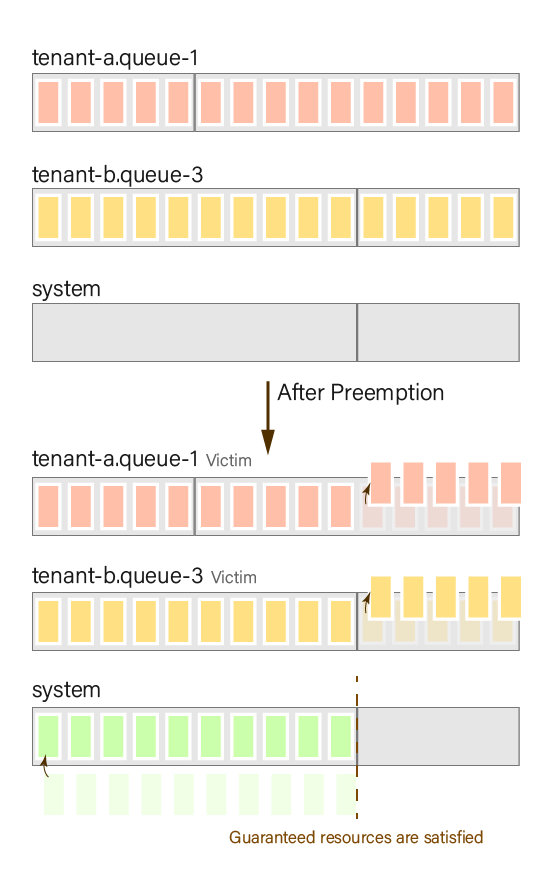
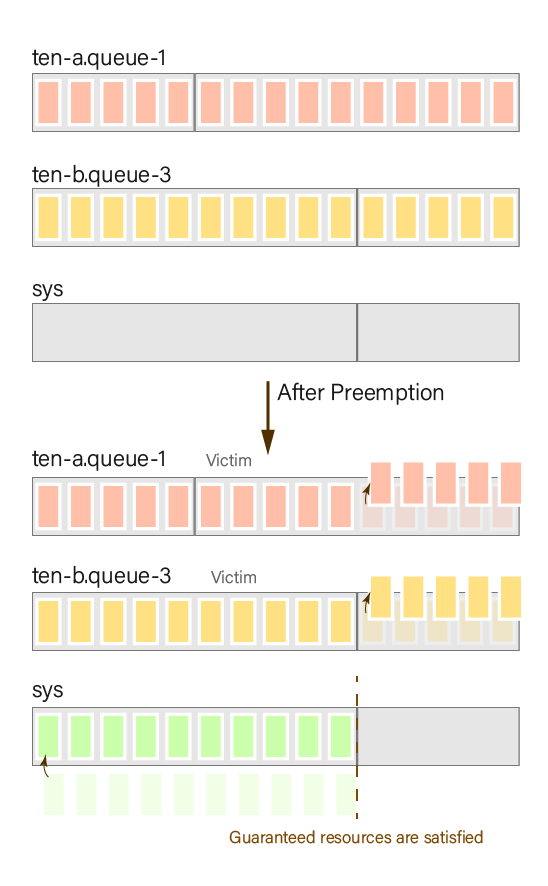
Table formatting

diff --git a/docs/user_guide/preemption.md b/docs/user_guide/preemption.md
@@ -93,10 +93,10 @@ Result:
 
 When a set of guaranteed resources is defined, preemption aims to ensure that all queues satisfy their guaranteed resources. Preemption stops once the guaranteed resources are met (law 4). A queue may be preempted if it has more resources than its guaranteed amount. For instance, in this case, if queue-1 has fewer resources than its guaranteed amount (<5), it will not be preempted (law 5).
 
-| Queue            | Resource before preemption | Resource after preemption              |
-| ---------------- | -------------------------- | -------------------------------------- |
-| `normal.queue-1` | 10 (victim)                | 7                                      |
-| `normal.queue-2` | 2                          | 5 (guaranteed resources are satisfied) |
+| Queue            | Resource before preemption | Resource after preemption |
+| ---------------- | -------------------------- | ------------------------- |
+| `normal.queue-1` | 10 (victim)                | 7                         |
+| `normal.queue-2` | 2                          | 5 (guaranteed minimum)    |
 
 ![preemption_normal_case](../assets/preemption_normal_case.png)
 
@@ -104,20 +104,20 @@ When a set of guaranteed resources is defined, preemption aims to ensure that al
 
 Similar to the previous example, but this time the queue does not have a "guaranteed resource" defined.
 
-| Queue                   | Max Resource | Guaranteed Resource |
-| ----------------------- | ------------ | ------------------- |
-| `no-guaranteed`         | 12           | -                   |
-| `no-guaranteed.queue-1` | 10           | -                   |
-| `no-guaranteed.queue-2` | 10           | -                   |
+| Queue          | Max Resource | Guaranteed Resource |
+| -------------- | ------------ | ------------------- |
+| `root`         | 12           | -                   |
+| `root.queue-1` | 10           | -                   |
+| `root.queue-2` | 10           | -                   |
 
 Result:
 
 In the absence of a guaranteed resource setting, preemption allows each queue to utilize an equal amount of resources.
 
-| Queue                     | Resource before preemption | Resource after preemption |
-| ------------------------- | -------------------------- | ------------------------- |
-| `no-guaranteed.queue-1` | 10 (victim)                | 6                         |
-| `no-guaranteed.queue-2` | 2                          | 6                         |
+| Queue          | Resource before preemption | Resource after preemption |
+| -------------- | -------------------------- | ------------------------- |
+| `root.queue-1` | 10 (victim)                | 6                         |
+| `root.queue-2` | 2                          | 6                         |
 
 ![preemption_no_guaranteed_case](../assets/preemption_no_guaranteed_case.png)
 
@@ -150,12 +150,12 @@ value: 0
 
 We will deploy 8 pods with a resource requirement of 1 to `queue-1`, `queue-2`, and `queue-3`, respectively. We will deploy to `queue-1` and `queue-2` first, followed by a few seconds delay before deploying to `queue-3`. This ensures that the resource usage in `queue-1` and `queue-2` will be greater than that in `queue-3`, depleting all resources in the parent queue and triggering preemption.
 
-| Queue                    | Max Resource | Guaranteed Resource | Policy                      |
-| ------------------------ | ------------ | ------------------- | --------------------------- |
-| `priority-class`         | 16           | -                   |                             |
-| `priority-class.queue-1` | 8            | 3                   | `"allow-preemption": true`  |
-| `priority-class.queue-2` | 8            | 3                   | `"allow-preemption": false` |
-| `priority-class.queue-3` | 8            | 3                   | `"allow-preemption": true`  |
+| Queue        | Max Resource | Guaranteed Resource | Policy-`allow-preemption` |
+| ------------ | ------------ | ------------------- | ------------------------- |
+| `rt`         | 16           | -                   |                           |
+| `rt.queue-1` | 8            | 3                   | `true`                    |
+| `rt.queue-2` | 8            | 3                   | `false`                   |
+| `rt.queue-3` | 8            | 3                   | `true`                    |
 
 Result:
 
@@ -166,11 +166,11 @@ Please note that setting `yunikorn.apache.org/allow-preemption` is a strong reco
 For example, even with `allow-preemption` set to `false`, DaemonSet pods can still be preempted. Additionally, if an application in `queue-1` has a higher priority than one in `queue-3`, the application in `queue-2` will be preempted because an application can never preempt another application with a higher priority. In such cases where no other preemption options exist, the `allow-preemption` flag may not prevent preemption.
 
 
-| Queue                  | Resource before preemption | Resource after preemption              |
-| ---------------------- | -------------------------- | -------------------------------------- |
-| `priority-class.queue-1` | 8 (victim)                 | 5                                      |
-| `priority-class.queue-2` | 8                          | 8                                      |
-| `priority-class.queue-3` | 0                          | 3 (guaranteed resources are satisfied) |
+| Queue        | Resource before preemption | Resource after preemption |
+| ------------ | -------------------------- | ------------------------- |
+| `rt.queue-1` | 8 (victim)                 | 5                         |
+| `rt.queue-2` | 8                          | 8                         |
+| `rt.queue-3` | 0                          | 3 (guaranteed minimum)    |
 
 ![preemption_priorityclass_case](../assets/preemption_priorityclass_case.png)
 
@@ -180,24 +180,24 @@ In addition to utilizing the default PriorityClass in Kubernetes, you can config
 
 In the following example, we will demonstrate preemption based on queue priority.
 
-We will deploy five pods with a resource demand of 3 in the `high-priority` queue, `normal-priority` queue, and `low-priority` queue, respectively. We will deploy them to the `normal-priority` queue first, ensuring that the resources in the `priority-queue`(parent queue) will be fully utilized. This will result in uneven resource distribution among the queues, triggering preemption.
+We will deploy five pods with a resource demand of 3 in the `high-pri` queue, `norm-pri` queue, and `low-pri` queue, respectively. We will deploy them to the `norm-pri` queue first, ensuring that the resources in the `root`(parent queue) will be fully utilized. This will result in uneven resource distribution among the queues, triggering preemption.
 
-| Queue                            | Max Resource | Guaranteed Resource | priority.offset |
-| -------------------------------- | ------------ | ------------------- | --------------- |
-| `priority-queue`                 | 18           | -                   |                 |
-| `priority-queue.high-priority`   | 10           | 6                   | 100             |
-| `priority-queue.normal-priority` | 18           | 6                   | 0               |
-| `priority-queue.low-priority`    | 10           | 6                   | -100            |
+| Queue           | Max Resource | Guaranteed Resource | priority.offset |
+| --------------- | ------------ | ------------------- | --------------- |
+| `root`          | 18           | -                   |                 |
+| `root.high-pri` | 10           | 6                   | 100             |
+| `root.norm-pri` | 18           | 6                   | 0               |
+| `root.low-pri`  | 10           | 6                   | -100            |
 
 Result:
 
 A queue with higher priority can preempt resources from a queue with lower priority, and preemption stops when the queue has preempted enough resources to satisfy its guaranteed resources.
 
-| Queue                            | Resource before preemption | Resource after preemption              |
-| -------------------------------- | -------------------------- | -------------------------------------- |
-| `priority-queue.high-priority`   | 0                          | 6 (guaranteed resources are satisfied) |
-| `priority-queue.normal-priority` | 18 (victim)                | 12                                     |
-| `priority-queue.low-priority`    | 0                          | 0                                      |
+| Queue           | Resource before preemption | Resource after preemption |
+| --------------- | -------------------------- | ------------------------- |
+| `root.high-pri` | 0                          | 6 (guaranteed minimum)    |
+| `root.norm-pri` | 18 (victim)                | 12                        |
+| `root.low-pri`  | 0                          | 0                         |
 
 ![preemption_priority_queue_case](../assets/preemption_priority_queue_case.png)
 
@@ -221,32 +221,32 @@ We will use the following diagram as an example:
 
 In this example, we will sequentially deploy 15 pods with a resource requirement of 1 to each sub-queue.
 
-First, we deploy `queue-1` in `tenant-a` and wait until the application in `queue-1` occupies all the resources of `tenant-a`. Then, we deploy `queue-2` after the resources of `tenant-a` are fully utilized. Next, we deploy the application `tenant-b.queue-3` and allocate resources to the system when the fence queue is full.
+First, we deploy `queue-1` in `tenant-a` and wait until the application in `queue-1` occupies all the resources of `tenant-a`. Then, we deploy `queue-2` after the resources of `tenant-a` are fully utilized. Next, we deploy the application `ten-b.queue-3` and allocate resources to the system when the fence queue is full.
 
-| Queue                    | Max Resource | Guaranteed Resource | fence |
-| ------------------------ | ------------ | ------------------- | ----- |
-| `fence`                  | 3            | -                   | true  |
-| `fence.tenant-a`         | 15           | 5                   | true  |
-| `fence.tenant-a.queue-1` | 15           | 2                   |       |
-| `fence.tenant-a.queue-2` | 15           | 2                   | true  |
-| `fence.tenant-b`         | 15           | 10                  | true  |
-| `fence.tenant-b.queue-3` | 15           | 10                  |       |
-| `fence.system`           | 15           | 10                  |       |
+| Queue              | Max Resource | Guaranteed Resource | fence |
+| ------------------ | ------------ | ------------------- | ----- |
+| `rt`               | 3            | -                   | true  |
+| `rt.ten-a`         | 15           | 5                   | true  |
+| `rt.ten-a.queue-1` | 15           | 2                   |       |
+| `rt.ten-a.queue-2` | 15           | 2                   | true  |
+| `rt.ten-b`         | 15           | 10                  | true  |
+| `rt.ten-b.queue-3` | 15           | 10                  |       |
+| `rt.sys`           | 15           | 10                  |       |
 
 Result:
 
 In this example, two imbalances are observed:
 
-- Within `tenant-a`, `queue-1` occupies all the resources, while `queue-2` has no resources. However, since `queue-2` is configured with a fence, it cannot acquire resources from outside the fence.
+- Within `ten-a`, `queue-1` occupies all the resources, while `queue-2` has no resources. However, since `queue-2` is configured with a fence, it cannot acquire resources from outside the fence.
   ![preemption_fence_case1](../assets/preemption_fence_case1.png)
-- Inside the `fence` queue, both `tenant-a` and `tenant-b` occupy all the resources, while the `system` queue has no resources, and no fence is set up. Therefore, the `system` queue can acquire resources from the queues in the hierarchy until its guaranteed resources are met. In this case, the `system` queue acquires resources from both `tenant-a` and `tenant-b`.
+- Inside the `rt` queue, both `ten-a` and `ten-b` occupy all the resources, while the `sys` queue has no resources, and no fence is set up. Therefore, the `sys` queue can acquire resources from the queues in the hierarchy until its guaranteed resources are met. In this case, the `sys` queue acquires resources from both `ten-a` and `ten-b`.
   ![preemption_fence_case2](../assets/preemption_fence_case2.png)
 
-| Queue                    | Resource before preemption | Resource after preemption |
-| ------------------------ | -------------------------- | ------------------------- |
-| `fence.tenant-a`         | 15                         | 10                        |
-| `fence.tenant-a.queue-1` | 15                         | 10                        |
-| `fence.tenant-a.queue-2` | 0                          | 0                         |
-| `fence.tenant-b`         | 15                         | 10                        |
-| `fence.tenant-b.queue-3` | 15                         | 10                        |
-| `fence.system`           | 0                          | 10                        |
+| Queue              | Resource before preemption | Resource after preemption |
+| ------------------ | -------------------------- | ------------------------- |
+| `rt.ten-a`         | 15                         | 10                        |
+| `rt.ten-a.queue-1` | 15                         | 10                        |
+| `rt.ten-a.queue-2` | 0                          | 0                         |
+| `rt.ten-b`         | 15                         | 10                        |
+| `rt.ten-b.queue-3` | 15                         | 10                        |
+| `rt.sys`           | 0                          | 10                        |
